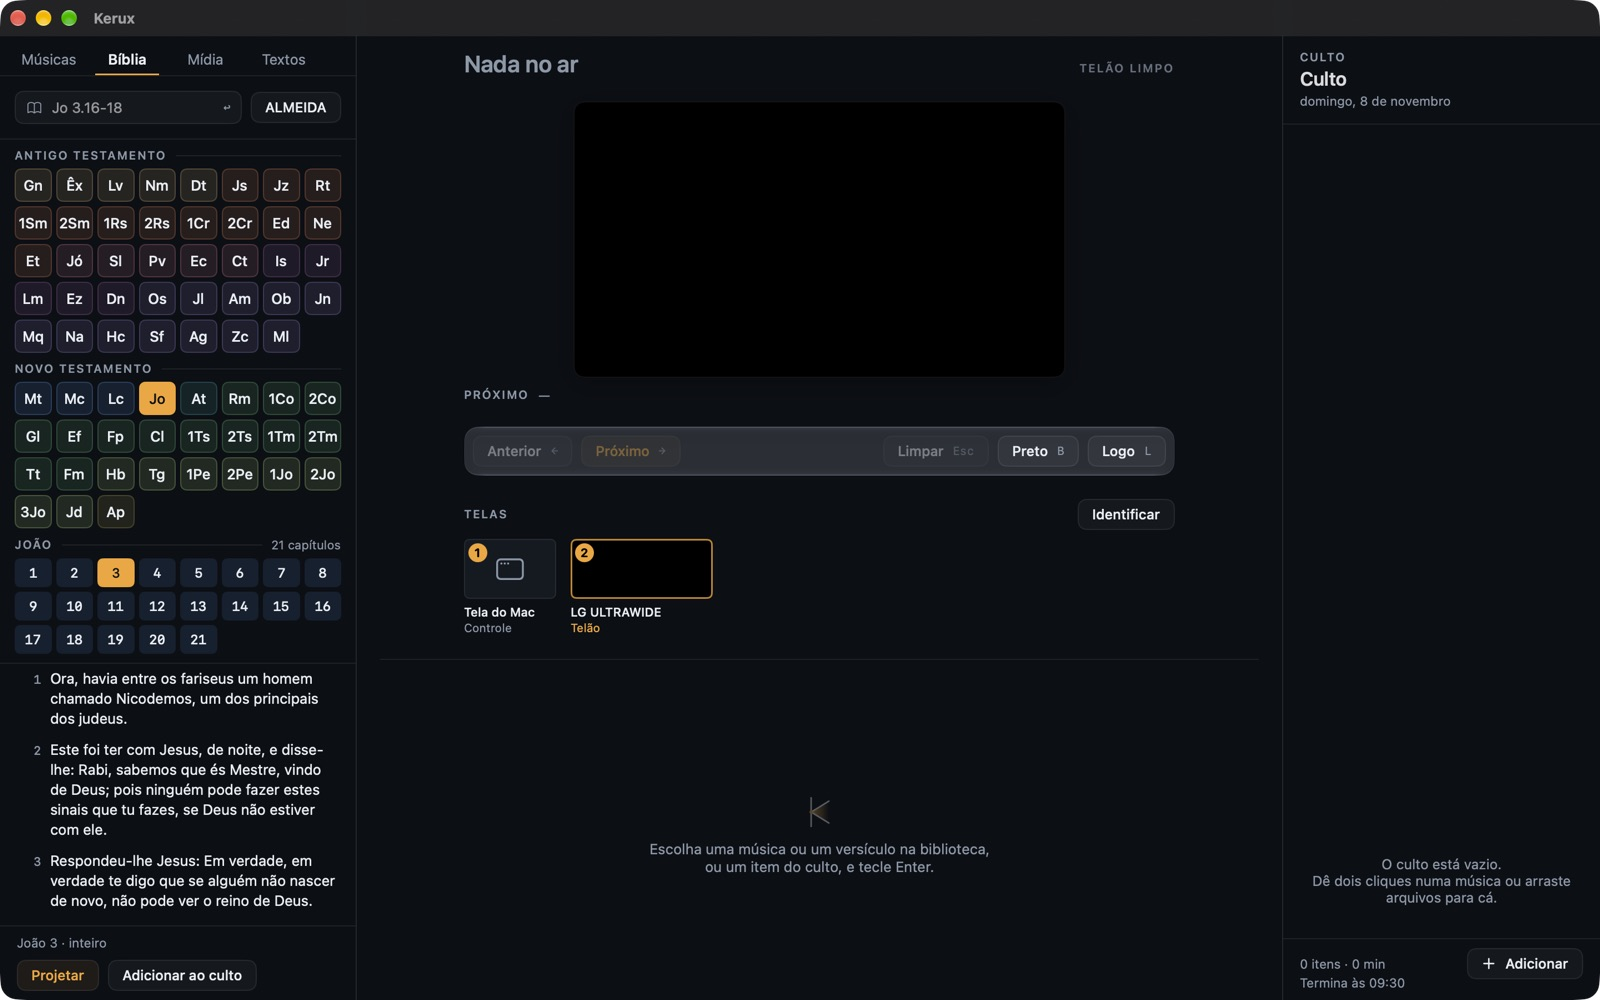
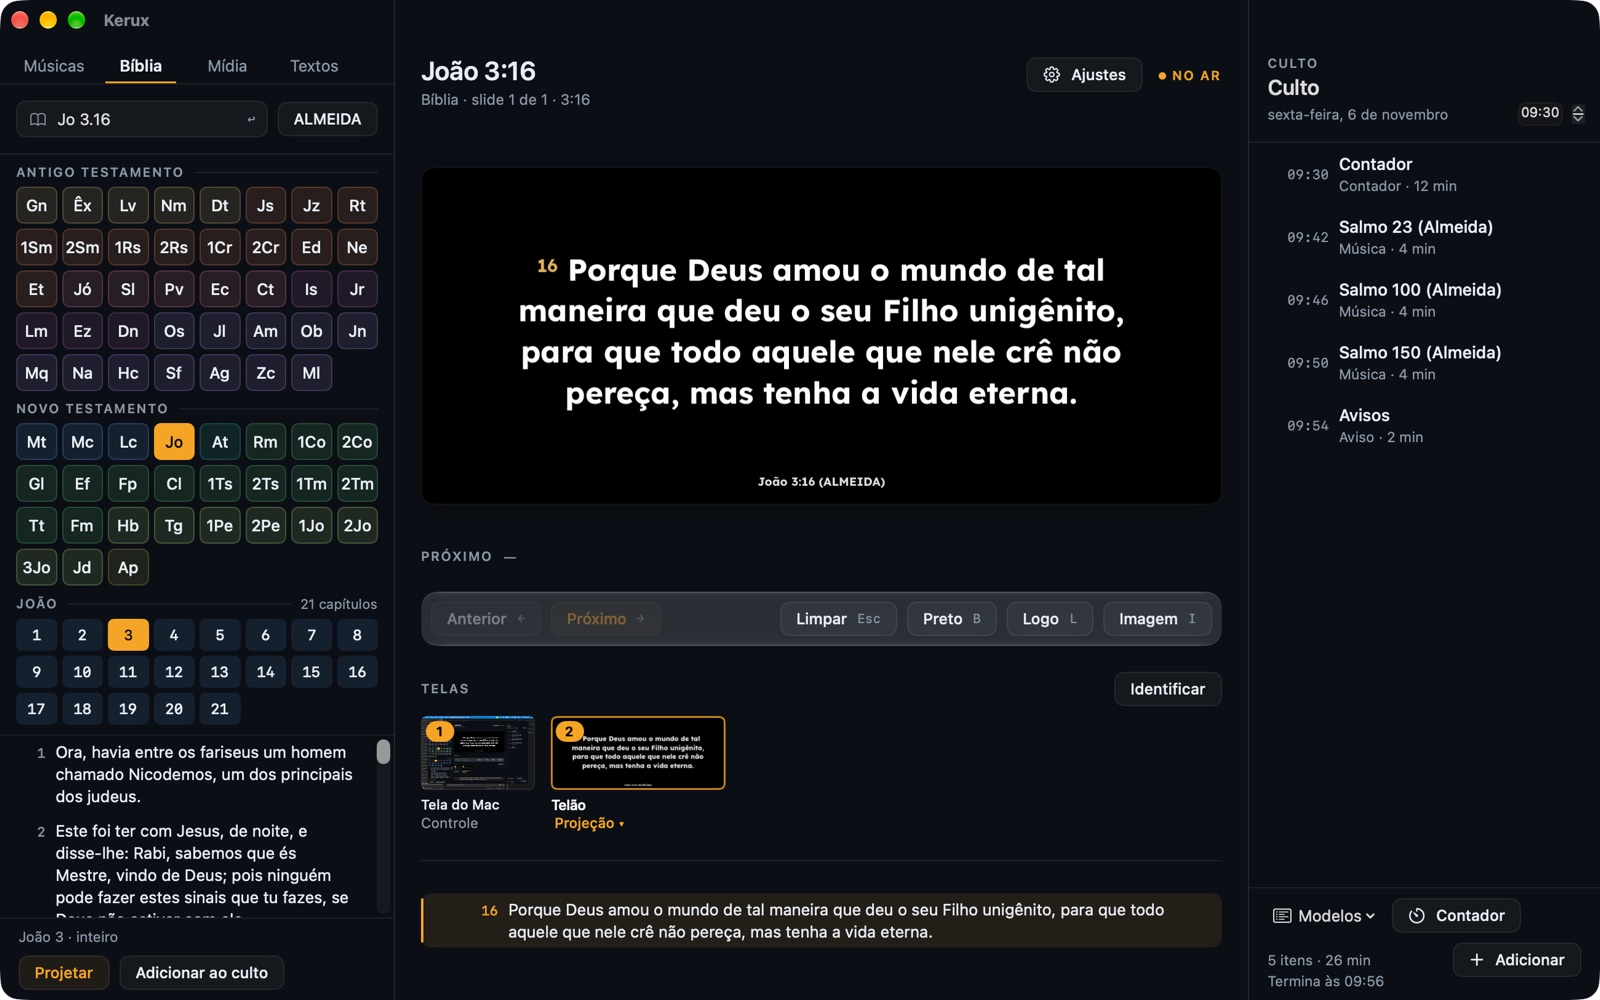
Kerux: imagens do Kerux 0.7.0 e do Kerux Controle Remoto 1.0.0+5
Janela de controle, Bíblia e telão da 0.7.0 (culto com horários e
contador, barra com Imagem, telas); app com a prévia preta como o
telão e a barra única. Textos alternativos e a lista do app (No ar,
culto com horários, reconectar/desconectar) acompanham as telas.

diff --git a/public/kerux/index.html b/public/kerux/index.html
@@ -73,7 +73,7 @@
 
       <figure class="sw-fig sw-hero-shot">
         <img src="/img/kerux/controle.jpg" width="1600" height="1000"
-          alt="Janela de controle do Kerux: biblioteca de músicas à esquerda, a letra no ar e os slides ao centro, e a ordem do culto à direita.">
+          alt="Janela de controle do Kerux: biblioteca de músicas à esquerda; ao centro a letra no ar, os botões Anterior, Próximo, Limpar, Preto, Logo e Imagem, as telas e os slides; à direita o culto com o horário de cada item, o contador e o horário de término.">
       </figure>
 
       <section class="sw-sec" id="para-quem">
@@ -149,7 +149,7 @@
         <div class="sw-figs">
           <figure class="sw-fig">
             <img src="/img/kerux/biblia.jpg" width="1600" height="1000" loading="lazy"
-              alt="Aba Bíblia do Kerux: grade com os livros do Antigo e do Novo Testamento, capítulos de João e o texto do capítulo 3.">
+              alt="Aba Bíblia do Kerux: grade com os livros do Antigo e do Novo Testamento, capítulos de João e o texto do capítulo 3, com João 3:16 no ar.">
             <figcaption>A Bíblia por livro, capítulo e versículo, com o telão no mapa de telas.</figcaption>
           </figure>
           <figure class="sw-fig">
@@ -210,11 +210,11 @@
             <p class="lead">O controle de celular do Kerux, para iPhone e Android. Ele não é um app à parte: só
               funciona com o Kerux aberto no Mac, na mesma rede Wi-Fi.</p>
             <ul class="sw-list">
-              <li><strong>Ao vivo:</strong> o slide atual, o próximo, Anterior e Próximo, e Limpar, Preto e Logo.</li>
-              <li><strong>Culto:</strong> a ordem do culto, com o item no ar. Toque para projetar.</li>
+              <li><strong>No ar:</strong> o slide atual como no telão, o próximo, Anterior e Próximo, e Limpar, Preto, Logo e Imagem.</li>
+              <li><strong>Culto:</strong> a ordem do culto com o horário de cada item e o item no ar. Toque para projetar.</li>
               <li><strong>Músicas e Bíblia:</strong> busca instantânea, e livro, capítulo e versículo.</li>
               <li><strong>Retorno de palco:</strong> o texto grande, o próximo e o relógio, no tablet.</li>
-              <li><strong>Conexão simples:</strong> acha o Mac sozinho, lê o QR code e reconecta.</li>
+              <li><strong>Conexão simples:</strong> acha o Mac sozinho, lê o QR code e reconecta; um toque reconecta ou desconecta.</li>
             </ul>
             <p class="sw-soon">Hoje o app está em teste interno. Disponível em breve na App Store e no Google Play.
               Enquanto isso, o Kerux já serve uma página de controle para o navegador do celular, sem instalar nada
@@ -223,9 +223,9 @@
           </div>
           <div class="sw-phones">
             <figure class="sw-fig"><img src="/img/kerux/app-ao-vivo.jpg" width="1206" height="2622" loading="lazy"
-              alt="Kerux Controle Remoto, aba Ao vivo: o verso 2 do Salmo 23 no ar, o próximo, a grade de slides e os botões Anterior, Próximo, Limpar, Preto e Logo."></figure>
+              alt="Kerux Controle Remoto, aba No ar: o verso 2 do Salmo 23 no ar em fundo preto, como no telão, o próximo, a grade de slides e os botões Anterior, Próximo, Limpar, Preto, Logo e Imagem."></figure>
             <figure class="sw-fig"><img src="/img/kerux/app-biblia.jpg" width="1206" height="2622" loading="lazy"
-              alt="Kerux Controle Remoto, aba Bíblia: busca por referência e navegação por livro, capítulo e versículo."></figure>
+              alt="Kerux Controle Remoto, aba Bíblia: referência digitada, a versão, João 3 com o versículo 3 escolhido e o botão Projetar."></figure>
           </div>
         </div>
       </section>

diff --git a/public/index.html b/public/index.html
@@ -558,7 +558,7 @@
           </div>
           <a class="sw-shot" href="/kerux/" aria-label="Ver a página do Kerux">
             <img src="img/kerux/controle.jpg" width="1600" height="1000" loading="lazy"
-              alt="Janela de controle do Kerux: biblioteca de músicas à esquerda, a letra no ar e os slides ao centro, e a ordem do culto à direita.">
+              alt="Janela de controle do Kerux: biblioteca de músicas à esquerda; ao centro a letra no ar, os botões Anterior, Próximo, Limpar, Preto, Logo e Imagem, as telas e os slides; à direita o culto com o horário de cada item, o contador e o horário de término.">
           </a>
         </div>
       </div>
